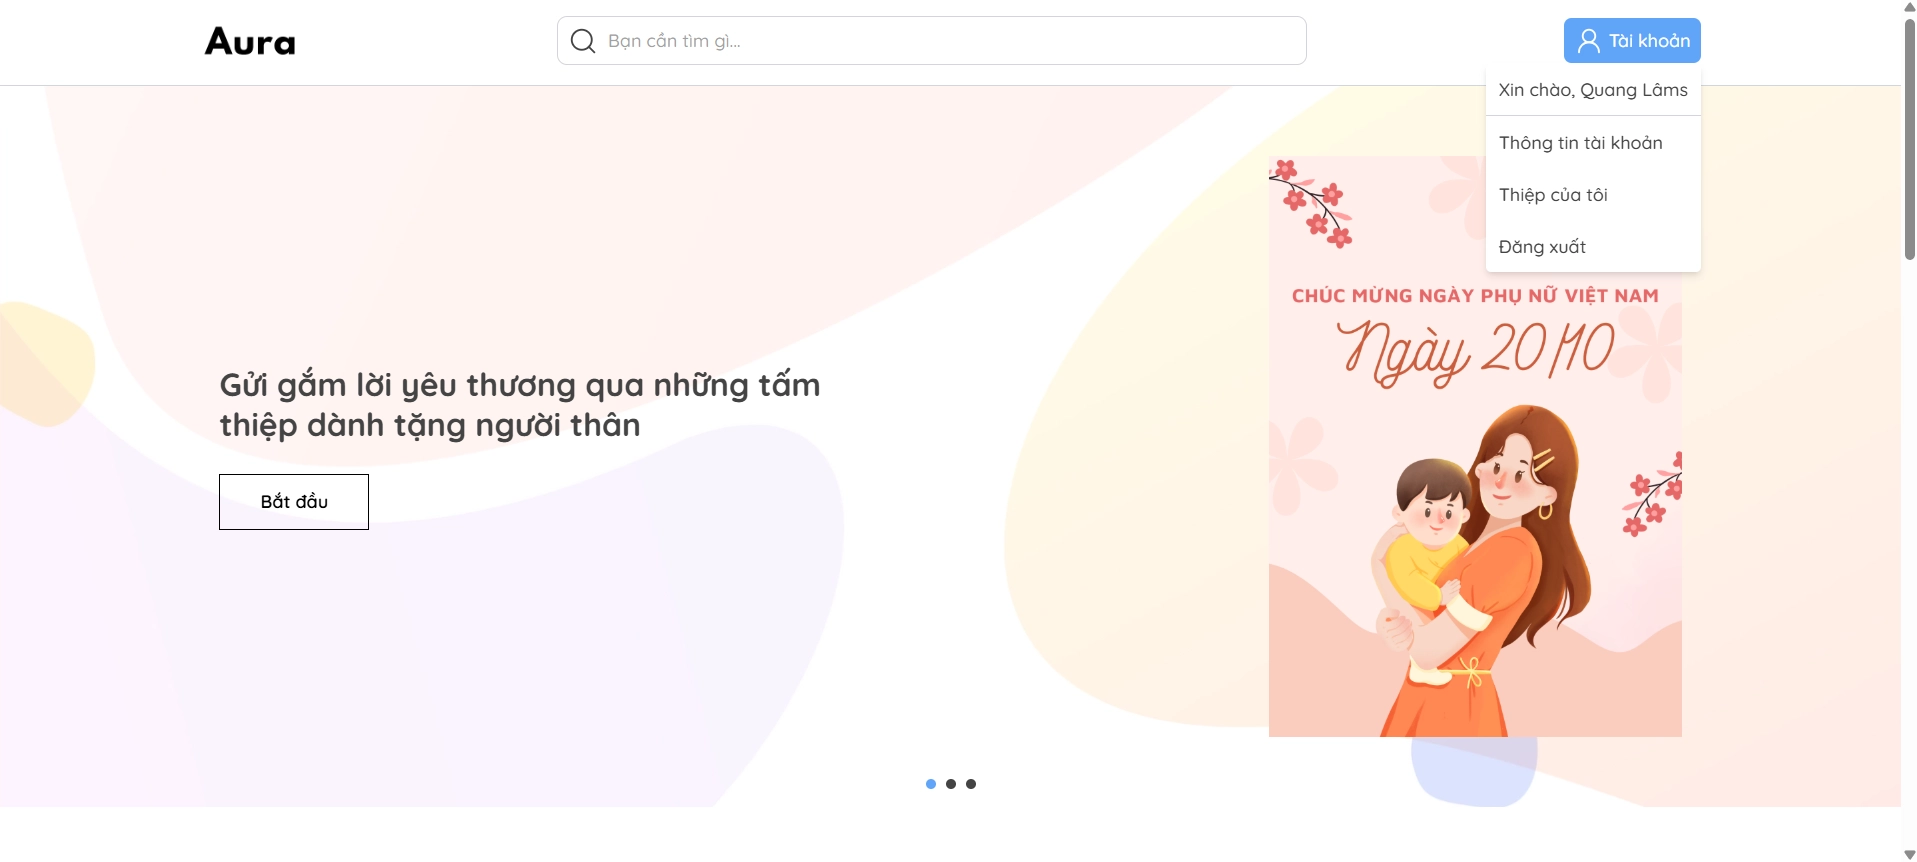
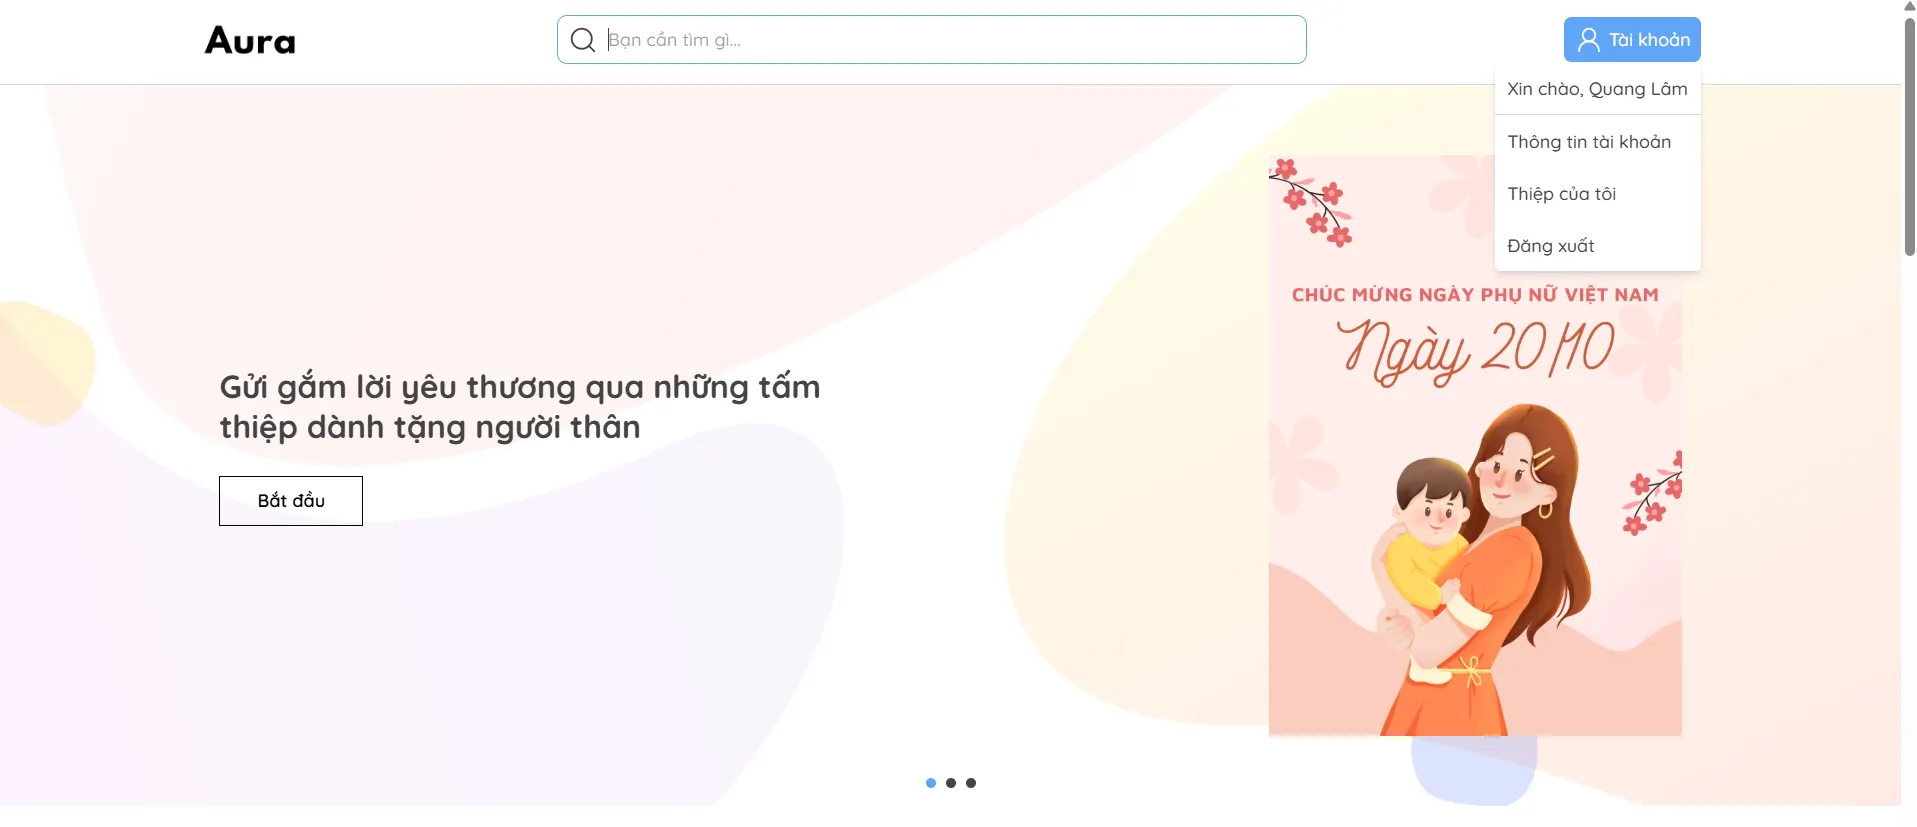
fix: Cập nhật Envelope và thêm hiệu ứng mở thiệp

diff --git a/frontend/src/components/customer/sendcard/Envelope.tsx b/frontend/src/components/customer/sendcard/Envelope.tsx
@@ -14,45 +14,112 @@ function Envelope({ isOpened, onOpen }: Props) {
           key="envelope"
           initial={{ opacity: 1, y: 0 }}
           exit={{ opacity: 0, y: 40, scale: 0.95 }}
-          transition={{ duration: 0.6, ease: [0.4, 0, 0.2, 1] }}
-          className="absolute top-1/2 left-1/2 -translate-x-1/2 -translate-y-1/2 w-72 h-72 bg-transparent"
+          transition={{
+            duration: 0.6,
+            ease: [0.4, 0, 0.2, 1],
+          }}
+          className="absolute top-1/2 left-1/2 -translate-x-1/2 -translate-y-1/2 w-[350px] h-[440px] bg-transparent"
         >
-          <div className="absolute top-0 left-0">
-            <svg xmlns="http://www.w3.org/2000/svg" height="300" width="300">
+          {/* Inside */}
+          <div className="absolute top-0 left-0 z-0" id="inside-envelope">
+            <svg
+              xmlns="http://www.w3.org/2000/svg"
+              width="350"
+              height="440"
+              viewBox="0 0 350 440"
+            >
               <polygon
-                points="0,100 300,100 300,300 0,300"
-                style={{ fill: "#FA8B7E" }}
+                points="0,146 350,146 350,440 0,440"
+                style={{ fill: "#F5E6A3" }}
               />
             </svg>
           </div>
 
-          <div className="absolute top-0 left-0 z-10">
-            <svg xmlns="http://www.w3.org/2000/svg" height="300" width="300">
+          {/* Body */}
+          <div className="absolute top-0 left-0 z-10" id="body-envelope">
+            <svg
+              xmlns="http://www.w3.org/2000/svg"
+              width="350"
+              height="440"
+              viewBox="0 0 350 440"
+            >
               <polygon
-                points="0,100 150,200 300,100 300,300 0,300"
-                style={{ fill: "#FFB094", stroke: "#FFB094", strokeWidth: 3 }}
+                points="0,146 175,293 350,146 350,440 0,440"
+                style={{ fill: "#C1935F" }}
               />
             </svg>
           </div>
 
+          {/* Header */}
           <motion.div
-            className="absolute top-0 left-0 z-[11]"
+            id="header-envelope"
+            className="absolute top-0 left-0 z-1"
             initial={false}
-            animate={{ rotateX: isOpened ? -55 : 0 }}
-            transition={{ duration: 0.5, ease: "easeOut" }}
-            style={{ transformOrigin: "50% 100%", perspective: 800 }}
+            animate={{
+              rotateX: isOpened ? -55 : 0,
+            }}
+            transition={{
+              duration: 0.5,
+              ease: "easeOut",
+            }}
+            style={{
+              transformOrigin: "50% 0%",
+              perspective: 800,
+            }}
           >
-            <svg xmlns="http://www.w3.org/2000/svg" height="300" width="300">
+            <svg
+              xmlns="http://www.w3.org/2000/svg"
+              width="350"
+              height="440"
+              viewBox="0 0 350 440"
+            >
               <polygon
-                points="0,100 150,200 300,100"
-                style={{ fill: "#FA8B7E", stroke: "#FA8B7E", strokeWidth: 2 }}
+                points="0,146 175,0 350,146"
+                style={{ fill: "#F5E6A3" }}
+              />
+
+              {/* Cạnh trái */}
+              <line
+                x1="0"
+                y1="146"
+                x2="175"
+                y2="0"
+                style={{
+                  stroke: "#C1935F",
+                  strokeWidth: 17,
+                }}
+              />
+
+              {/* Cạnh phải */}
+              <line
+                x1="175"
+                y1="0"
+                x2="350"
+                y2="146"
+                style={{
+                  stroke: "#C1935F",
+                  strokeWidth: 17,
+                }}
+              />
+
+              {/* Cạnh đáy */}
+              <line
+                x1="350"
+                y1="146"
+                x2="0"
+                y2="146"
+                style={{
+                  stroke: "#D3C172",
+                  strokeWidth: 1,
+                }}
               />
             </svg>
           </motion.div>
 
           <Button
             onClick={onOpen}
-            className="z-20 bg-yellow-400 w-[28px] h-[28px] rounded-full absolute top-[182px] left-[138px] hover:scale-110"
+            onPointerDown={(e) => e.stopPropagation()}
+            className="z-30 bg-yellow-400 w-[32px] h-[32px] rounded-full absolute top-[270px] left-[158px] hover:scale-110 shadow-md"
           />
         </motion.div>
       )}

diff --git a/frontend/src/components/customer/sendcard/SendCardContainer.tsx b/frontend/src/components/customer/sendcard/SendCardContainer.tsx
@@ -6,6 +6,7 @@ import { useGetSavedCardById } from "../../../hooks/queries/useSavedCards";
 import { useNavigate, useParams } from "react-router-dom";
 import toast from "react-hot-toast";
 import { AnimatePresence, motion } from "framer-motion";
+import { fireConfetti } from "../../../utils/confetti";
 
 function SendCardContainer() {
   const { id } = useParams();
@@ -35,16 +36,21 @@ function SendCardContainer() {
       return;
     }
 
-    const t0 = setTimeout(() => setShowCard(true), 700);
-    const t1 = setTimeout(() => setIsFlipped(true), 1500);
+    const t0 = setTimeout(() => setShowCard(true), 600); // khớp với exit duration của envelope
+    const t1 = setTimeout(() => setIsFlipped(true), 1400); // hiện mặt trước 800ms trước khi lật
+    const t2 = setTimeout(() => setShowButtons(true), 2100); // flip 700ms xong + buffer nhẹ
 
-    const t2 = setTimeout(() => setShowButtons(true), 2400);
     return () => {
       clearTimeout(t0);
       clearTimeout(t1);
       clearTimeout(t2);
     };
   }, [isOpened]);
+
+  const handleOpenCard = () => {
+    setIsOpened(true);
+    fireConfetti();
+  };
 
   const handleReset = () => {
     setIsOpened(false);
@@ -58,7 +64,7 @@ function SendCardContainer() {
         className="relative h-screen overflow-hidden bg-cover bg-center bg-no-repeat"
         style={{ backgroundImage: "url('/assets/bg-design.webp')" }}
       >
-        <Envelope isOpened={isOpened} onOpen={() => setIsOpened(true)} />
+        <Envelope isOpened={isOpened} onOpen={() => handleOpenCard()} />
 
         <AnimatePresence>
           {showCard && savedCard && (

diff --git a/frontend/src/components/customer/home/BannerCarousel.tsx b/frontend/src/components/customer/home/BannerCarousel.tsx
@@ -57,7 +57,7 @@ function BannerCarousel() {
 
                       <Link
                         to="/cards"
-                        className="relative inline-flex items-center justify-center h-[45px] w-[120px] text-[0.9rem] font-semibold border border-black text-black overflow-hidden transition-colors duration-500 hover:text-white mx-auto md:mx-0 group"
+                        className="relative inline-flex items-center justify-center h-[40px] w-[115px] text-[0.9rem] font-semibold border border-black text-black overflow-hidden transition-colors duration-500 hover:text-white mx-auto md:mx-0 group"
                       >
                         <span className="relative z-10 flex items-center justify-center h-full">
                           Bắt đầu

diff --git a/frontend/src/utils/confetti.ts b/frontend/src/utils/confetti.ts
@@ -1,0 +1,34 @@
+import confetti from "canvas-confetti";
+
+const colors = ["#FA8B7E", "#FFB094", "#FFD966"];
+
+export const fireConfetti = () => {
+  confetti({
+    particleCount: 90,
+    spread: 75,
+    origin: { x: 0.5, y: 0.55 },
+    colors,
+  });
+};
+
+export const fireCannon = () => {
+  confetti({
+    particleCount: 100,
+    angle: 90,
+    spread: 45,
+    startVelocity: 55,
+    origin: { x: 0.5, y: 1 },
+    colors,
+  });
+};
+
+export const fireStars = () => {
+  confetti({
+    particleCount: 40,
+    spread: 60,
+    origin: { x: 0.5, y: 0.55 },
+    shapes: ["star"],
+    colors: ["#FFD966", "#FFB094", "#FA8B7E"],
+    scalar: 1.2,
+  });
+};

diff --git a/frontend/src/components/admin/ui/InputImage.tsx b/frontend/src/components/admin/ui/InputImage.tsx
@@ -65,7 +65,7 @@ function InputImage({
         htmlFor={InputId}
         onDrop={handleDrop}
         onDragOver={handleDragOver}
-        className="flex flex-col p-[15px] items-center justify-center w-full min-h-70 h-full border-2 border-border border-dashed rounded-lg cursor-pointer bg-bg"
+        className="flex flex-col p-[15px] items-center justify-center w-full min-h-70 h-full border-2 border-border border-dashed bg-bg rounded-lg cursor-pointer"
       >
         {!previewImages.length ? (
           <div className="flex flex-col items-center justify-center text-text-muted space-y-4">

diff --git a/frontend/src/components/customer/home/CollectionSection.tsx b/frontend/src/components/customer/home/CollectionSection.tsx
@@ -34,7 +34,7 @@ function CollectionSection() {
                   <h4 className="uppercase">{card.title}</h4>
 
                   <Link
-                    className="border border-black p-[6px_10px] text-[0.9rem] font-medium text-center inline-block w-fit hover:bg-black hover:text-white"
+                    className="border border-black p-[6px_10px] text-[0.9rem] font-medium text-center inline-block w-fit transition-colors duration-300 hover:bg-black hover:text-white"
                     to={card.link}
                   >
                     Xem thêm

diff --git a/frontend/src/components/customer/card/CardSlider.tsx b/frontend/src/components/customer/card/CardSlider.tsx
@@ -59,7 +59,7 @@ function CardSlider({ title, isLoading = false, cards }: Props) {
           <div className="flex justify-center items-center">
             <Link
               to={"/cards"}
-              className="bg-black text-white border-0 cursor-pointer text-[0.9rem] font-medium w-auto !flex p-[10px_12px] items-center justify-center gap-[5px]"
+              className="bg-black text-white text-[0.9rem] font-medium w-auto p-[10px_12px]"
             >
               Xem tất cả
             </Link>

diff --git a/frontend/src/components/admin/LoginForm.tsx b/frontend/src/components/admin/LoginForm.tsx
@@ -49,7 +49,7 @@ function LoginForm() {
 
   return (
     <>
-      <section className="bg-[#F1F4F9] w-full">
+      <section className="bg-bg-admin w-full">
         <div className="flex justify-center items-center h-screen">
           <div className="relative bg-white rounded-lg shadow-md border border-border max-w-[850px] w-full h-[500px]">
             <div className="h-full grid grid-cols-1 sm:grid-cols-2 items-center">

diff --git a/frontend/src/components/customer/home/FeatureSection.tsx b/frontend/src/components/customer/home/FeatureSection.tsx
@@ -33,7 +33,7 @@ function FeatureSection() {
           {features.map((item, index) => {
             return (
               <div
-                className="w-full p-[15px] bg-white border border-border"
+                className="w-full p-[15px] bg-white border border-border hover:border-primary"
                 key={index}
               >
                 <div className="mb-[30px]">

diff --git a/frontend/src/components/admin/AccountInfo.tsx b/frontend/src/components/admin/AccountInfo.tsx
@@ -6,7 +6,7 @@ function AccountInfo() {
   const { data: accountData } = useGetMe();
   const account = accountData?.data;
   return (
-    <div className="py-[30px] sm:px-[25px] px-[15px] bg-[#F1F4F9] h-full">
+    <div className="py-[30px] sm:px-[25px] px-[15px] h-full">
       <form className="flex flex-col gap-7 w-full">
         <h2 className="text-text-muted">Tài khoản</h2>
 

diff --git a/frontend/src/components/customer/savedcard/SavedCardItem.tsx b/frontend/src/components/customer/savedcard/SavedCardItem.tsx
@@ -34,7 +34,7 @@ function SavedCardItem({ savedCard }: SavedCardItemProps) {
   return (
     <div className="flex flex-col gap-[10px] relative">
       <div
-        className="relative w-full aspect-[4/3] rounded-sm bg-bg"
+        className="relative w-full aspect-[4/3] rounded-sm bg-skeleton"
         ref={containerRef}
       >
         <Link

diff --git a/frontend/src/components/admin/user/CreateUserForm.tsx b/frontend/src/components/admin/user/CreateUserForm.tsx
@@ -50,7 +50,7 @@ function CreateUserForm() {
   };
 
   return (
-    <div className="py-[30px] sm:px-[25px] px-[15px] bg-[#F1F4F9] h-full">
+    <div className="py-[30px] sm:px-[25px] px-[15px] h-full">
       <form
         className="flex flex-col gap-7 w-full"
         onSubmit={handleSubmit(onSubmit)}
